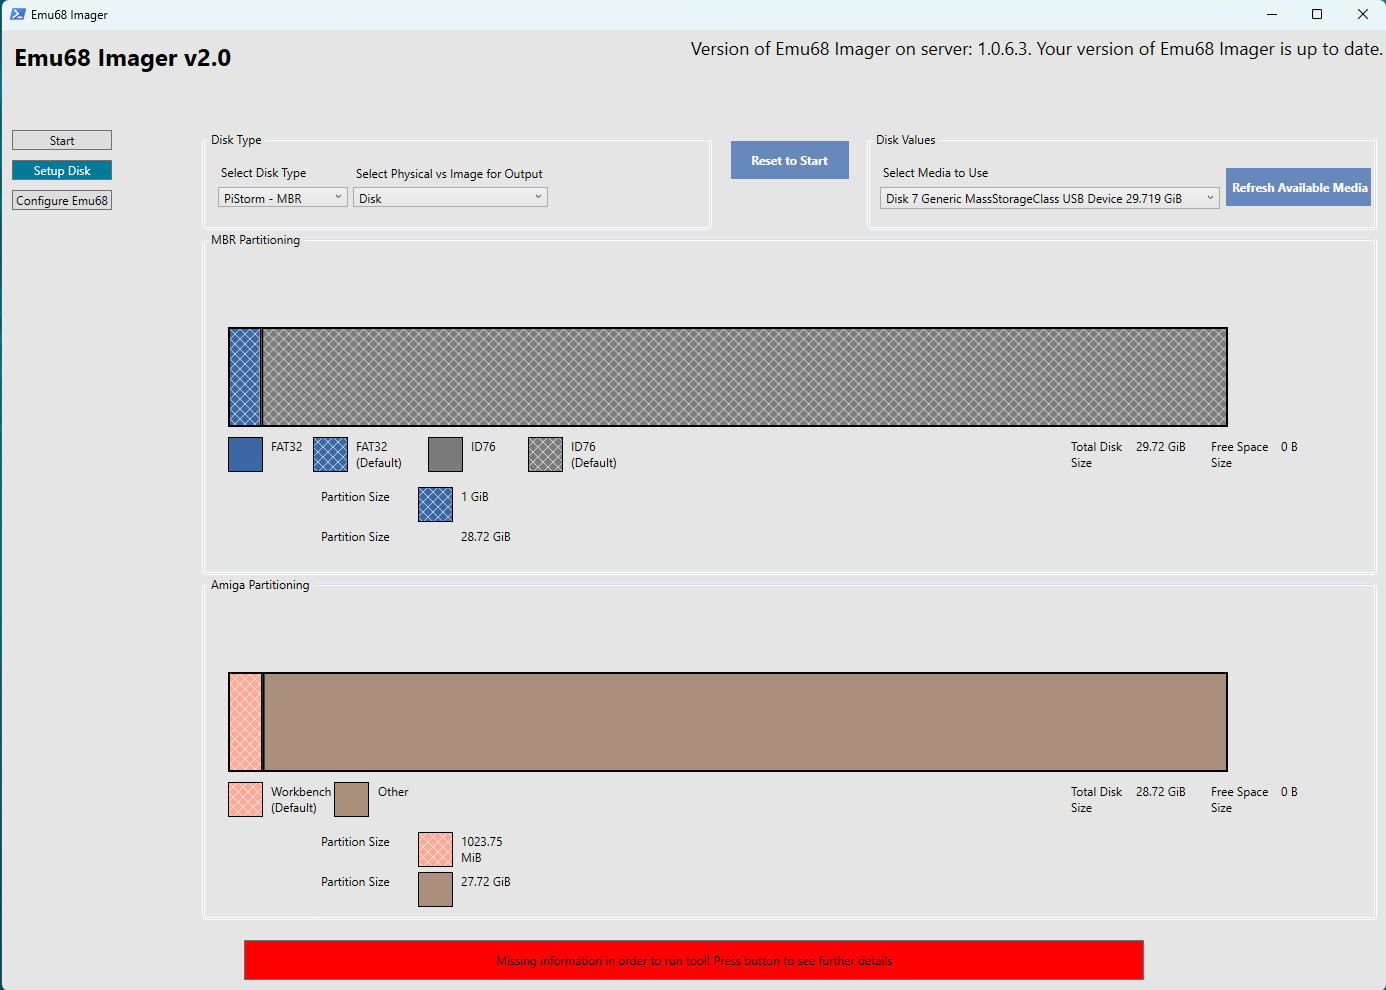
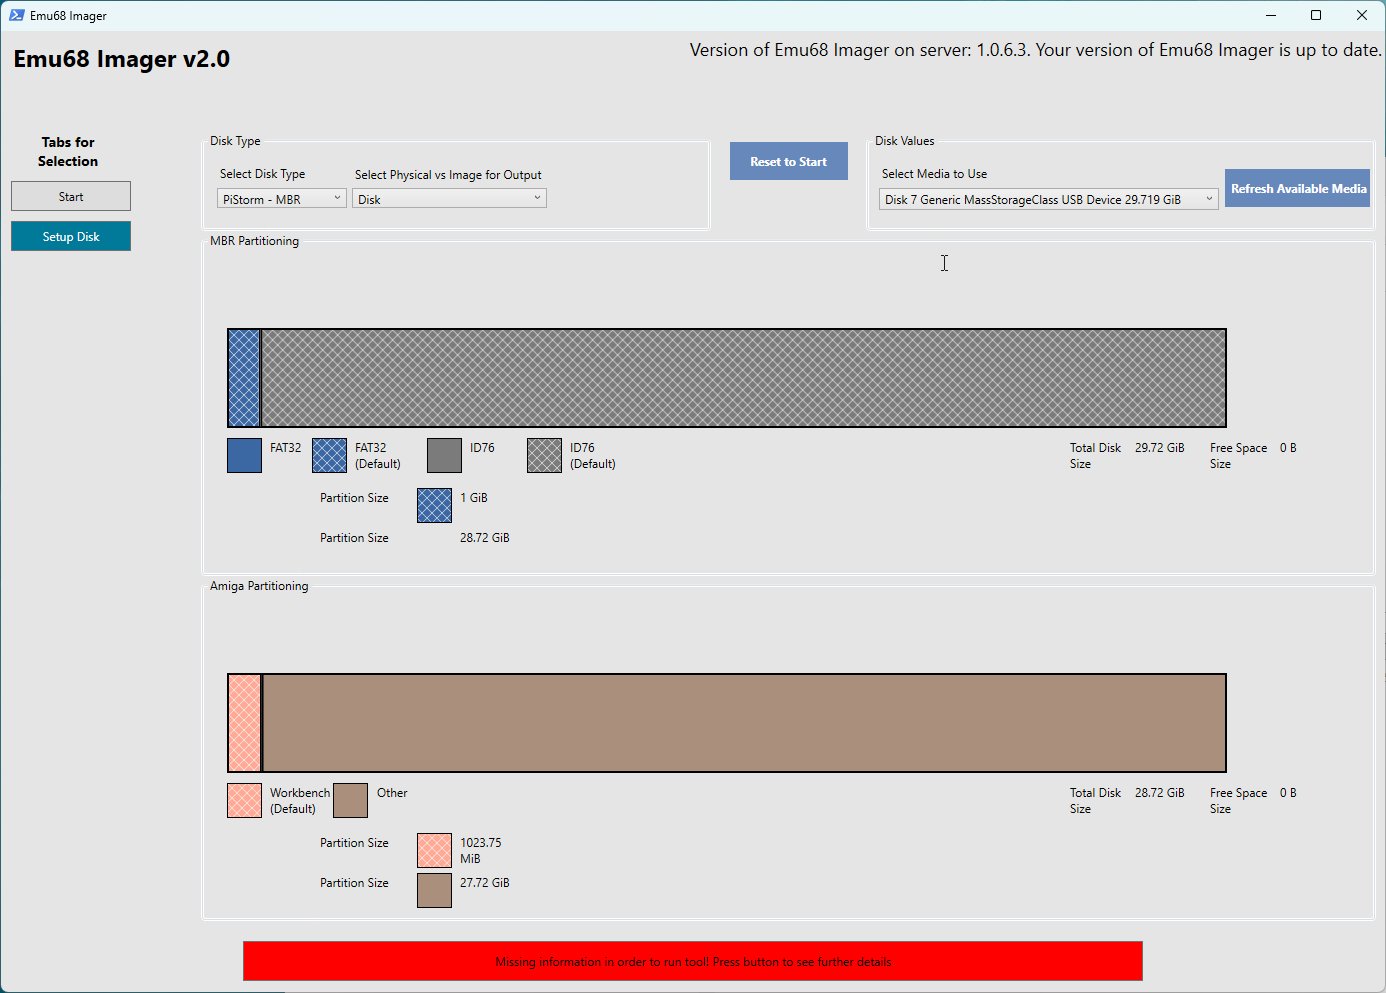
Updated to Version 2 documentation

diff --git a/docs/InstructionsEmu68ImagerV2.md b/docs/InstructionsEmu68ImagerV2.md
@@ -18,45 +18,9 @@ Once you have selected the mode you will be presented with the start screen. Eac
 
 ### Start
 
-This the start page which provides quick guidance as well as a link to this documentation.
+This the start page where you set up the environment you wish to install. It also provides links to the documentation (this site).
 
-### Setup Disk
-
-![Emu68 Imager Screenshot](images/Version2/SetupDisk.png)
-
-This is where you set up the disk you wish to write to. There are a few different things to do:
-
-#### Disk Type
-
-This is where you define if you want to write to either a SD card or to an Image which you can then write to at a later date. If you change your mind after you begin configuring the disk/image you will need to redo this part!
-
-If you select a Disk you will need to select the particular disk you wish to write to. Only removable media attached to your PC will be available for selection.
-
-If you select an image, you will need to define the following:
-- Image Size: The size of the image you want to create
-- Image Location: Where you wish to save the image. When you save the image you are provided with two different image types to save, a .vhd file or a .img file. A .img file is the fixed size of the image. For example, if you select 32GiB you will need 32 GiB of space to save the file. This is the most compatible image format and should work regardless of the software you use to mount and write the image. Alternatively, you can use a .vhd file which will dynamically resize based on the contents of the image. This has the advantage that even a large sized image will only take up as much space as the data within. However, not all software will recognise this format - though it is recognised both in WinUAE and Windows. 
-
-#### Partitioning
-
-This is where you set up the disk in accordance with how you wish. There are two levels of partitioning, the MBR partitions and the Amiga Partitions.
-
-MBR partitions are what the Raspberry Pi recognises when you boot the Amiga and Emu68 loads. Emu68 loads files from a FAT32 partition. Additionally, MBR partitions with the Partition ID of 0x76 are identified by Emu68 as being separate Amiga drives. Note, there can be a maximum of 4 MBR partitions. This is a limitation of the MBR structure, not Emu68.
-
-By default, the Emu68 Imager creates one FAT32 partition and one 0x76 partition. If you wish, you can resize, move, delete, and add partitions. However, you are limited to the maximum of four MBR partitions.
-
-If you click on any of the 0x76 partitions you will then see the Amiga partitions included within the 0x76 partition. Again, you can resize, move, delete and add partitions as you see fit. Should you wish you can also define the parameters of the partition including device, volume name, etc. - as you would if you were using HDToolbox on the Amiga. You can have a maximum of 10 Amiga partitions within the 0x76 partition. This is not a limitation of AmigaOS - rather it's placed within Emu68 Imager such that the interface does not become unwieldy! 
-
-You also have the option of importing files from your PC to the partition. However, you are limited to importing single folders which will then import all files and folders underneath that folder. Each Amiga partition can have files imported to it. 
-
-If you want to set up your owm environment you can delete the default Workbench partition. However, you will need to restart the set up process should you change your mind. 
-
-if you have more granular requirements, you can of course use WinUAE, HST Imager, DiskFlashback, etc. to copy individual files directly to the partition.
-
-### Configure Emu68
-
-This is where you set up the environment you wish to install.
-
-![Emu68 Imager Screenshot](images/Version2/ConfigureEmu68.png)
+![Emu68 Imager Screenshot](images/Version2/StartupPageAdvanced.png)
 
 #### OS Selection
 
@@ -159,6 +123,39 @@ Please note, the output of your RaspberryPi is fixed after boot, and cannot be c
 The imager tool gives you the option of configuring the Emu68 WiFi driver (wifipi.device) at install time, such that wifi will be available immediately the Amiga has booted. You need to enter the SSID (name) for your WiFi access point and the Password for it in the `Wifi Settings` section. Note this is case sensitive!
 
 Please bear in mind that your wifi name and password are stored on the image should you use this option! It is not mandatory to provide this information during the tool setup, and you can set it up or change it later on by using the **Wifi Config** icon in the **PiStorm** folder on your Workbench partition.
+
+
+### Setup Disk
+
+![Emu68 Imager Screenshot](images/Version2/SetupDiskAdvanced.png)
+
+This is where you set up the disk you wish to write to. There are a few different things to do:
+
+#### Disk Type
+
+This is where you define if you want to write to either a SD card or to an Image which you can then write to at a later date. If you change your mind after you begin configuring the disk/image you will need to redo this part!
+
+If you select a Disk you will need to select the particular disk you wish to write to. Only removable media attached to your PC will be available for selection.
+
+If you select an image, you will need to define the following:
+- Image Size: The size of the image you want to create
+- Image Location: Where you wish to save the image. When you save the image you are provided with two different image types to save, a .vhd file or a .img file. A .img file is the fixed size of the image. For example, if you select 32GiB you will need 32 GiB of space to save the file. This is the most compatible image format and should work regardless of the software you use to mount and write the image. Alternatively, you can use a .vhd file which will dynamically resize based on the contents of the image. This has the advantage that even a large sized image will only take up as much space as the data within. However, not all software will recognise this format - though it is recognised both in WinUAE and Windows. 
+
+#### Partitioning
+
+This is where you set up the disk in accordance with how you wish. There are two levels of partitioning, the MBR partitions and the Amiga Partitions.
+
+MBR partitions are what the Raspberry Pi recognises when you boot the Amiga and Emu68 loads. Emu68 loads files from a FAT32 partition. Additionally, MBR partitions with the Partition ID of 0x76 are identified by Emu68 as being separate Amiga drives. Note, there can be a maximum of 4 MBR partitions. This is a limitation of the MBR structure, not Emu68.
+
+By default, the Emu68 Imager creates one FAT32 partition and one 0x76 partition. If you wish, you can resize, move, delete, and add partitions. However, you are limited to the maximum of four MBR partitions.
+
+If you click on any of the 0x76 partitions you will then see the Amiga partitions included within the 0x76 partition. Again, you can resize, move, delete and add partitions as you see fit. Should you wish you can also define the parameters of the partition including device, volume name, etc. - as you would if you were using HDToolbox on the Amiga. You can have a maximum of 10 Amiga partitions within the 0x76 partition. This is not a limitation of AmigaOS - rather it's placed within Emu68 Imager such that the interface does not become unwieldy! 
+
+You also have the option of importing files from your PC to the partition. However, you are limited to importing single folders which will then import all files and folders underneath that folder. Each Amiga partition can have files imported to it. 
+
+If you want to set up your owm environment you can delete the default Workbench partition. However, you will need to restart the set up process should you change your mind. 
+
+if you have more granular requirements, you can of course use WinUAE, HST Imager, DiskFlashback, etc. to copy individual files directly to the partition.
 
 ### Select Packages
 

diff --git a/docs/quickstart.md b/docs/quickstart.md
@@ -6,29 +6,25 @@ For Version 2 and above, use Simple Mode which will provide an easy way to set u
 
 ![Emu68 Imager Startup Screen](images/Version2/StartupScreen.png)
 
-Once you have selected Simple mode you will have two options on the left of the screen:
-- Setup Disk
-- Configure Emu68
+Once you have selected Simple mode in addition to the current start up page you will also an option to go to the page to set up the disk. However, first set up the options for your install.  
 
-You can then perform the following steps:
-- Go to "Setup Disk"
-
-![Emu68 Imager Setup Disk Screen](images/Version2/SetupDiskSimple.png)
-
-- Select either disk or Image for the output. Depending on your selection you will then need to either select the SD card you have inserted into your SD card reader or set a image location and size. The tool wil automatically assign space for each partition
-
-- Go to "Configure Emu68"
-
-![Emu68 Imager Configure Emu68 Screen](images/Version2/ConfigureEmu68.png)
+![Emu68 Imager Startup Page](images/Version2/StartupPageSimple.png)
 
 - Select the desired OS version. Currently 3.1, 3.2, 3.2.2.1, 3.2.3, and 3.9 are available. 
 - Ensure the Kickstart ROM and all installation ADF floppy images are in folders on your disk or have been copied to the default folder (refer to [Supplying Kickstart ROM and Workbench installation floppy images (.ADF files)](instructions.md#supplying-kickstart-rom-and-workbench-installation-floppy-images-adf-files) section).
 - If you have not used the default folder, select the Kickstart folder (can be the same as the ADF folder) by clicking on `Click to set Kickstart Path` button. Click the `Check` button to validate you have the correct files.
 - If you have not used the default folder, select the ADF Images folder (can be the same as the Kickstart folder) by clicking on `Click to set ADF Path` button. Click the `Check` button to validate you have the correct files.
 - Select the Screen Mode of your HDMI monitor in the drop down box (assuming you do not want the default option of Automatic).
-- If the `Run Tool` button remains red then you have not set the required options. Pressing this button when red will inform you of which options you have missed.
-- Press the green `Run Tool` button and follow the popup windows to start the tool. A console window will open showing you the current progress.
-- It will take some time for all utilities to be downloaded and image written. The console window will show progress. 
+
+Once you have completed these steps, go to "Setup Disk"
+
+![Emu68 Imager Setup Disk Screen](images/Version2/SetupDiskSimple.png)
+
+- Select either disk or Image for the output. Depending on your selection you will then need to either select the SD card you have inserted into your SD card reader or set a image location and size. The tool wil automatically assign space for each partition
+
+At this point you should be able to write to the SD card (or generate the image if you have selected this option) through pressing the 'Run Tool' button at the bottom of the screen. If the `Run Tool` button remains red then you have not set the required options. Pressing this button when red will inform you of which options you have missed.
+
+Press the green `Run Tool` button and follow the popup windows to start the tool. A console window will open showing you the current progress. It will take some time for all utilities to be downloaded and image written. The console window will show progress. 
 
 ## Version 1.X
 
